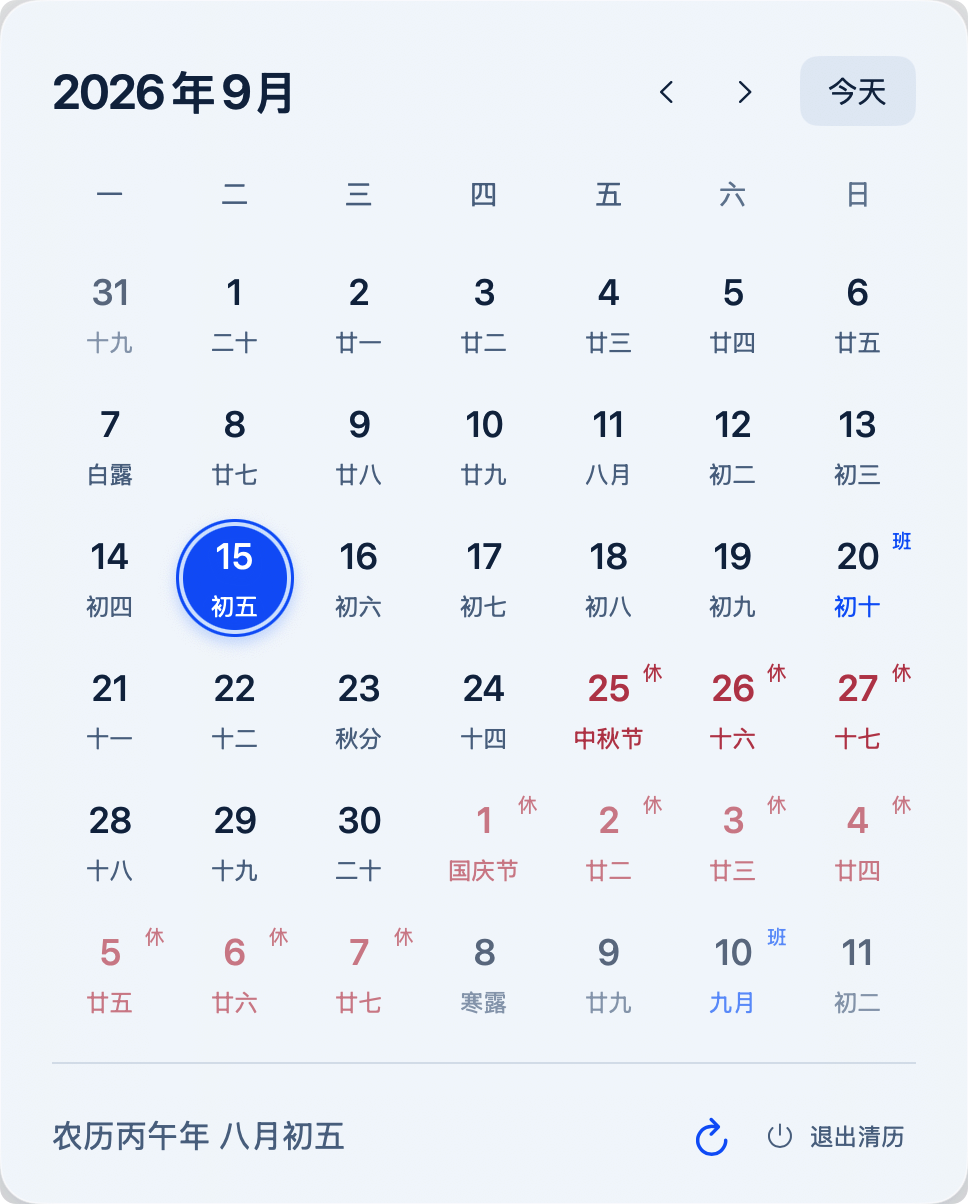
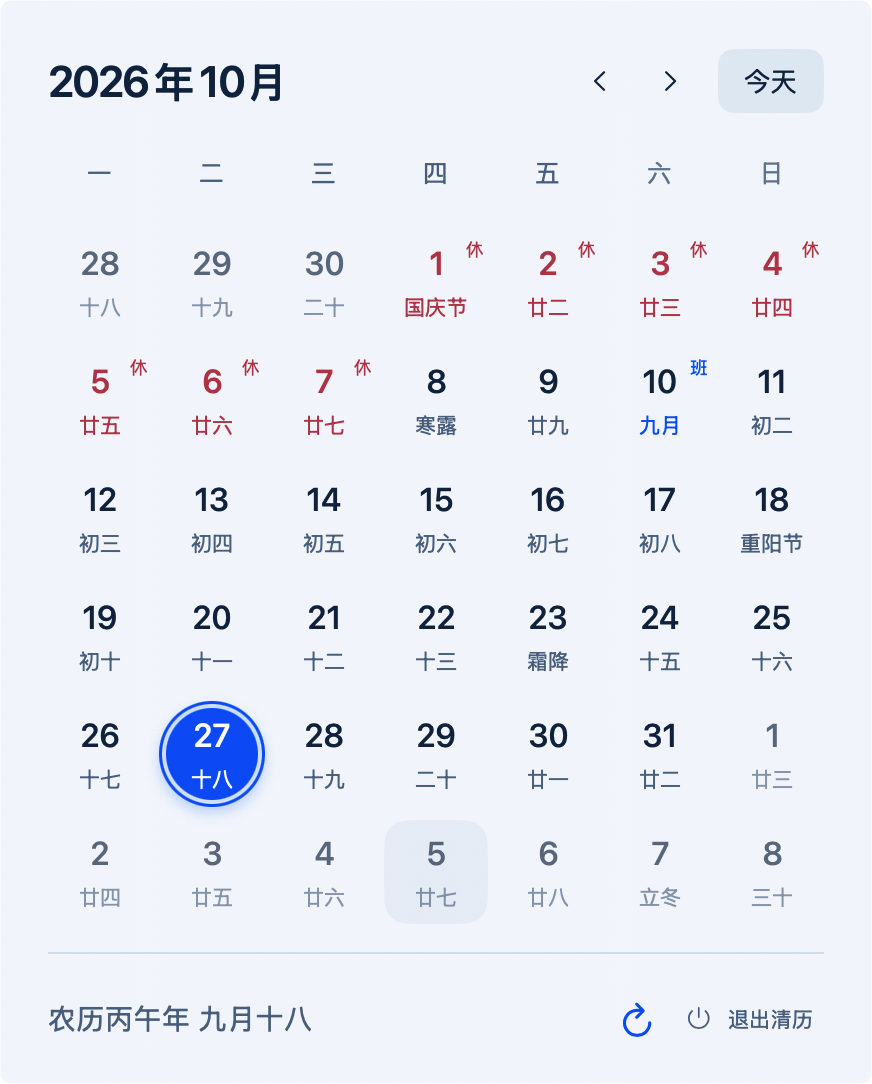
chore: 升级至 1.1.2 并更新 README 截图

diff --git a/README.md b/README.md
@@ -3,8 +3,14 @@
 清历是一款 macOS 14+ 菜单栏农历应用，把公历、农历、传统节日、二十四节气和中国法定放假、调休补班信息放在手边。应用不读取系统日历，也不显示 Dock 图标。
 
 <p align="center">
-  <img src="docs/screenshots/qingli-calendar.png" alt="清历月历界面" width="484">
+  <img src="docs/screenshots/qingli-calendar.png" alt="清历 1.1.2 菜单栏月历截图" width="436">
 </p>
+
+清历 1.1.2 菜单栏月历实拍（浅色外观，2026 年 10 月）。
+
+## 版本说明
+
+当前源码版本为 **1.1.2**（构建号 **4**）。本次调整菜单栏弹窗的圆角和宿主窗口背景，优化四角灰色露底，保留现有主题、玻璃材质及布局。
 
 ## 功能
 
